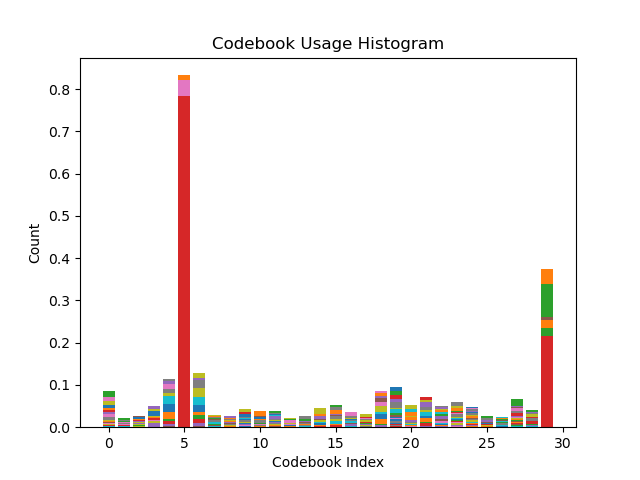
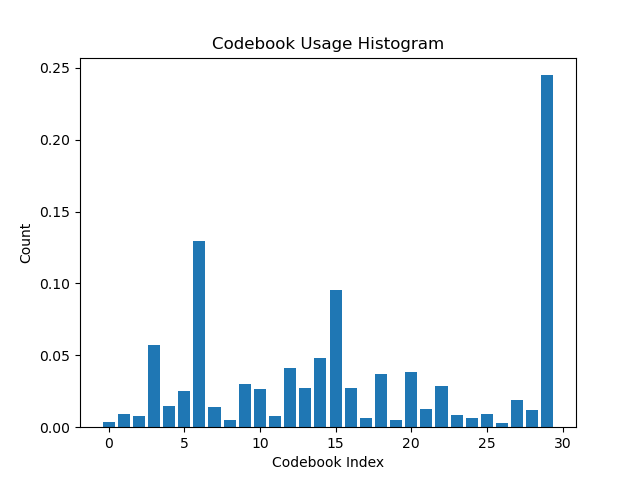
updated

diff --git a/src/models/quantizer.py b/src/models/quantizer.py
@@ -3,10 +3,13 @@ import torch.nn as nn
 import torch.nn.functional as F
 import numpy as np
 import matplotlib.pyplot as plt
+import os
 
 class Quantizer(nn.Module):
-    def __init__(self, num_codebooks):
+    def __init__(self, num_codebooks, save_dir="histogram_frames"):
         super(Quantizer, self).__init__()
+        self.frame_count = 0  
+        self.save_dir = save_dir
         self.num_codebooks = num_codebooks
         self.codebook_usage = torch.zeros(self.num_codebooks)
            
@@ -62,22 +65,28 @@ class Quantizer(nn.Module):
         flattened_indices = encoding_indices.view(-1)  # Shape: (B*T,)
 
         # Compute histogram
-        histogram = torch.bincount(flattened_indices, minlength=self.num_codebooks).float().cpu()
-        # Normalize to probabilities
-        histogram /= histogram.sum() + 1e-8  # Avoid division by zero
-        
-        self.codebook_usage += histogram
+        histogram = torch.bincount(flattened_indices, minlength=self.num_codebooks).float()
+        # Accumulate usage
+        self.codebook_usage += histogram.cpu()
+
+        # Re-normalize after accumulation
+        self.codebook_usage /= self.codebook_usage.sum() + 1e-8  # Keep it as a probability distribution
         
         
         plt.clf() 
-        plt.bar(range(self.num_codebooks), histogram)
+        plt.bar(range(self.num_codebooks), self.codebook_usage.cpu().numpy())
         plt.xlabel("Codebook Index")
         plt.ylabel("Count")
         plt.title("Codebook Usage Histogram")
-        plt.savefig("codebook_usage_histogram.png")
-        plt.close()
         
+        # filename = os.path.join(self.save_dir, f"frame_{self.frame_count:04d}.png")  # Saves as frame_0000.png, frame_0001.png, ...
+        filename = "codebook_usage_histogram.png"
+        plt.savefig(filename)
+        plt.close()  # Free memory
+
+        self.frame_count += 1  # Increment frame count
         
+        histogram /= histogram.sum() + 1e-8  # Normalize to a probability distribution
         return histogram
 
     
